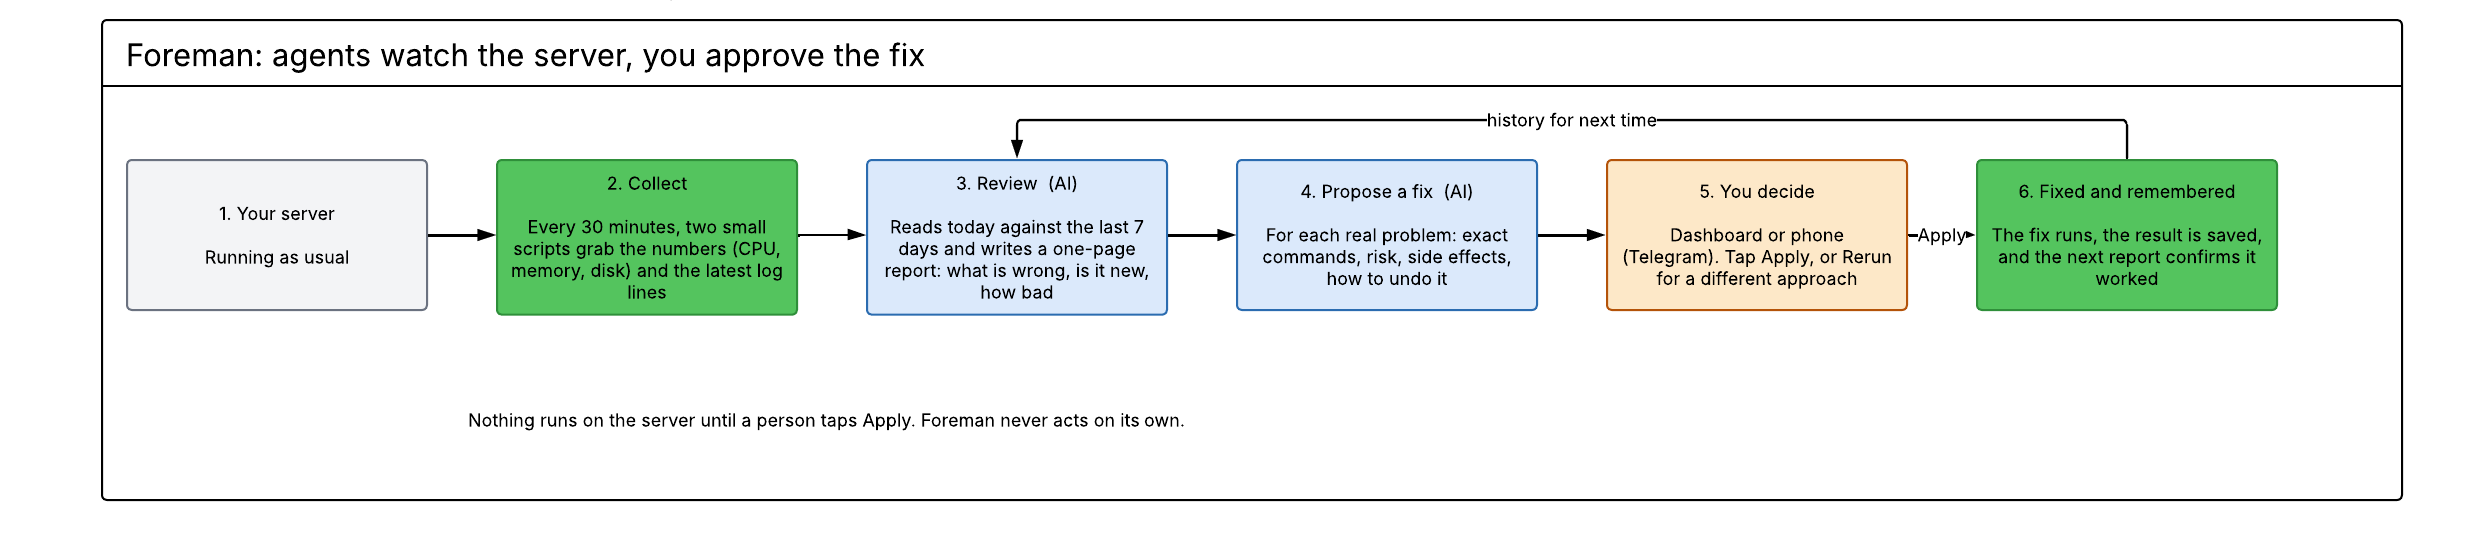
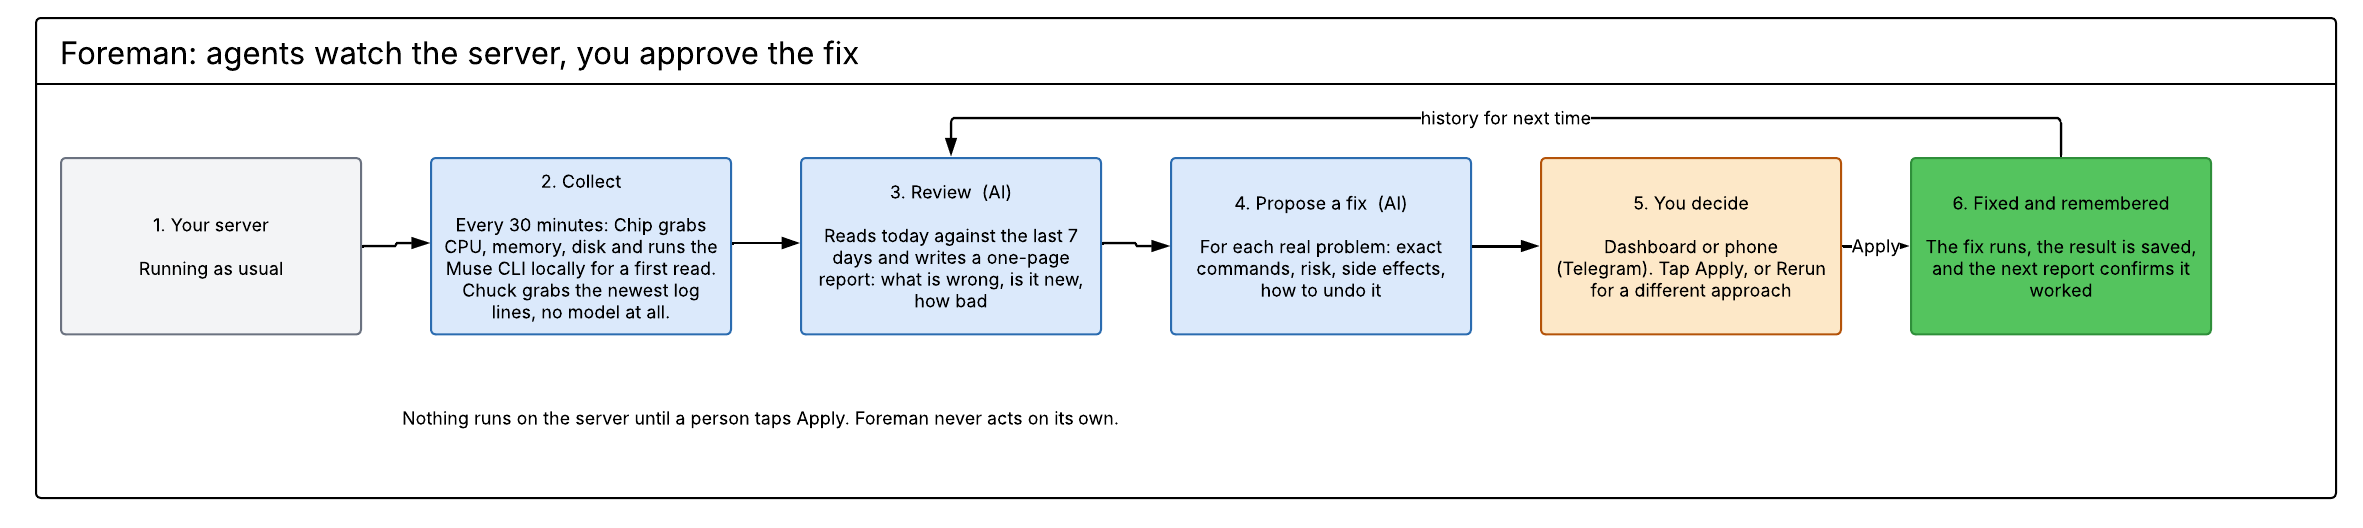
readme update

diff --git a/README.md b/README.md
@@ -39,10 +39,10 @@ Both agents are Pydantic AI agents with structured output. One finding worth sha
 
 ![How Foreman works](docs/how-it-works.png)
 
-Six steps, two of them AI, one of them you.
+Six steps. Three use AI (one local, two frontier), one is you.
 
 1. **Your server** runs as usual. Foreman sits next to it.
-2. **Collect.** Every 30 minutes two small scripts grab the numbers (CPU, memory, disk) and the newest log lines. No AI here, just facts.
+2. **Collect.** Every 30 minutes Chip grabs the numbers (CPU, memory, disk) and runs the Muse CLI locally for a first read; Chuck grabs the newest log lines with no model at all. Facts first.
 3. **Review.** The Reviewer agent reads today against the last seven days and writes a one-page report: what's wrong, whether it's new or recurring, how bad.
 4. **Propose a fix.** For each finding that needs action, the Fixer agent writes the exact commands, the risk, the side effects, and how to undo it.
 5. **You decide.** On the dashboard or on your phone. Tap Apply, or Rerun for a different approach.
